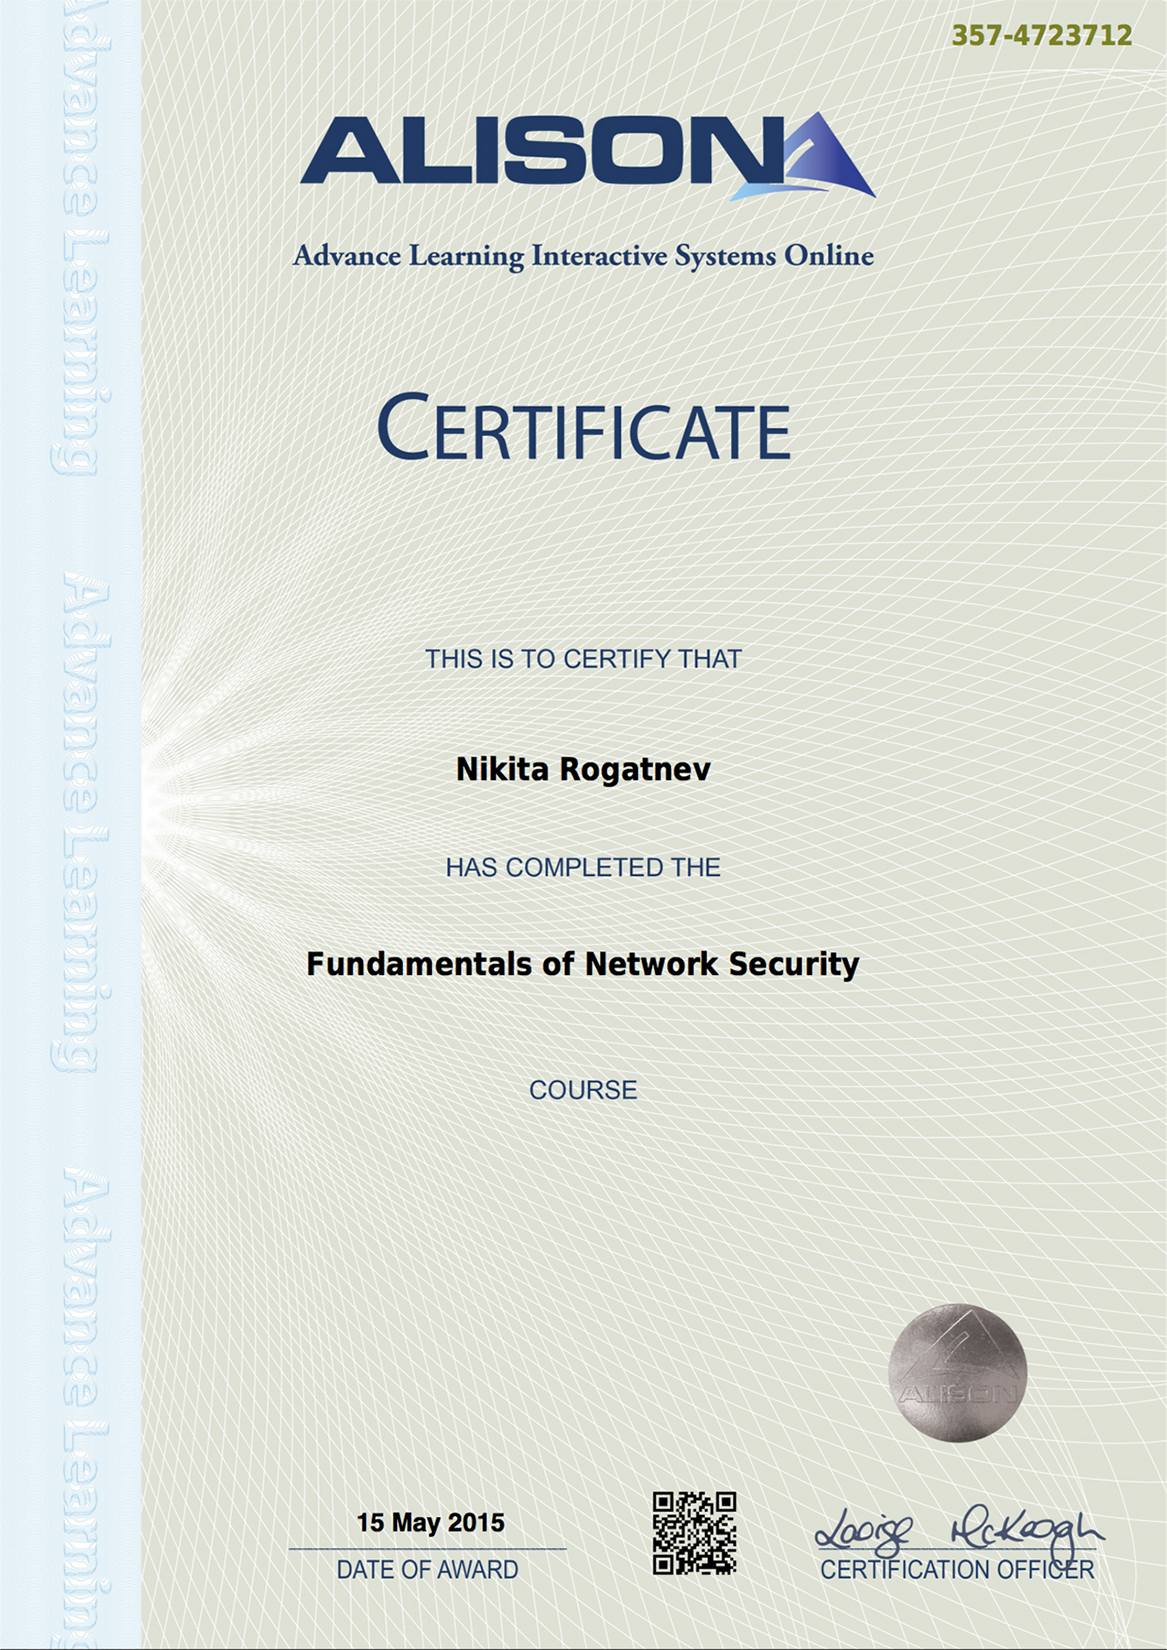
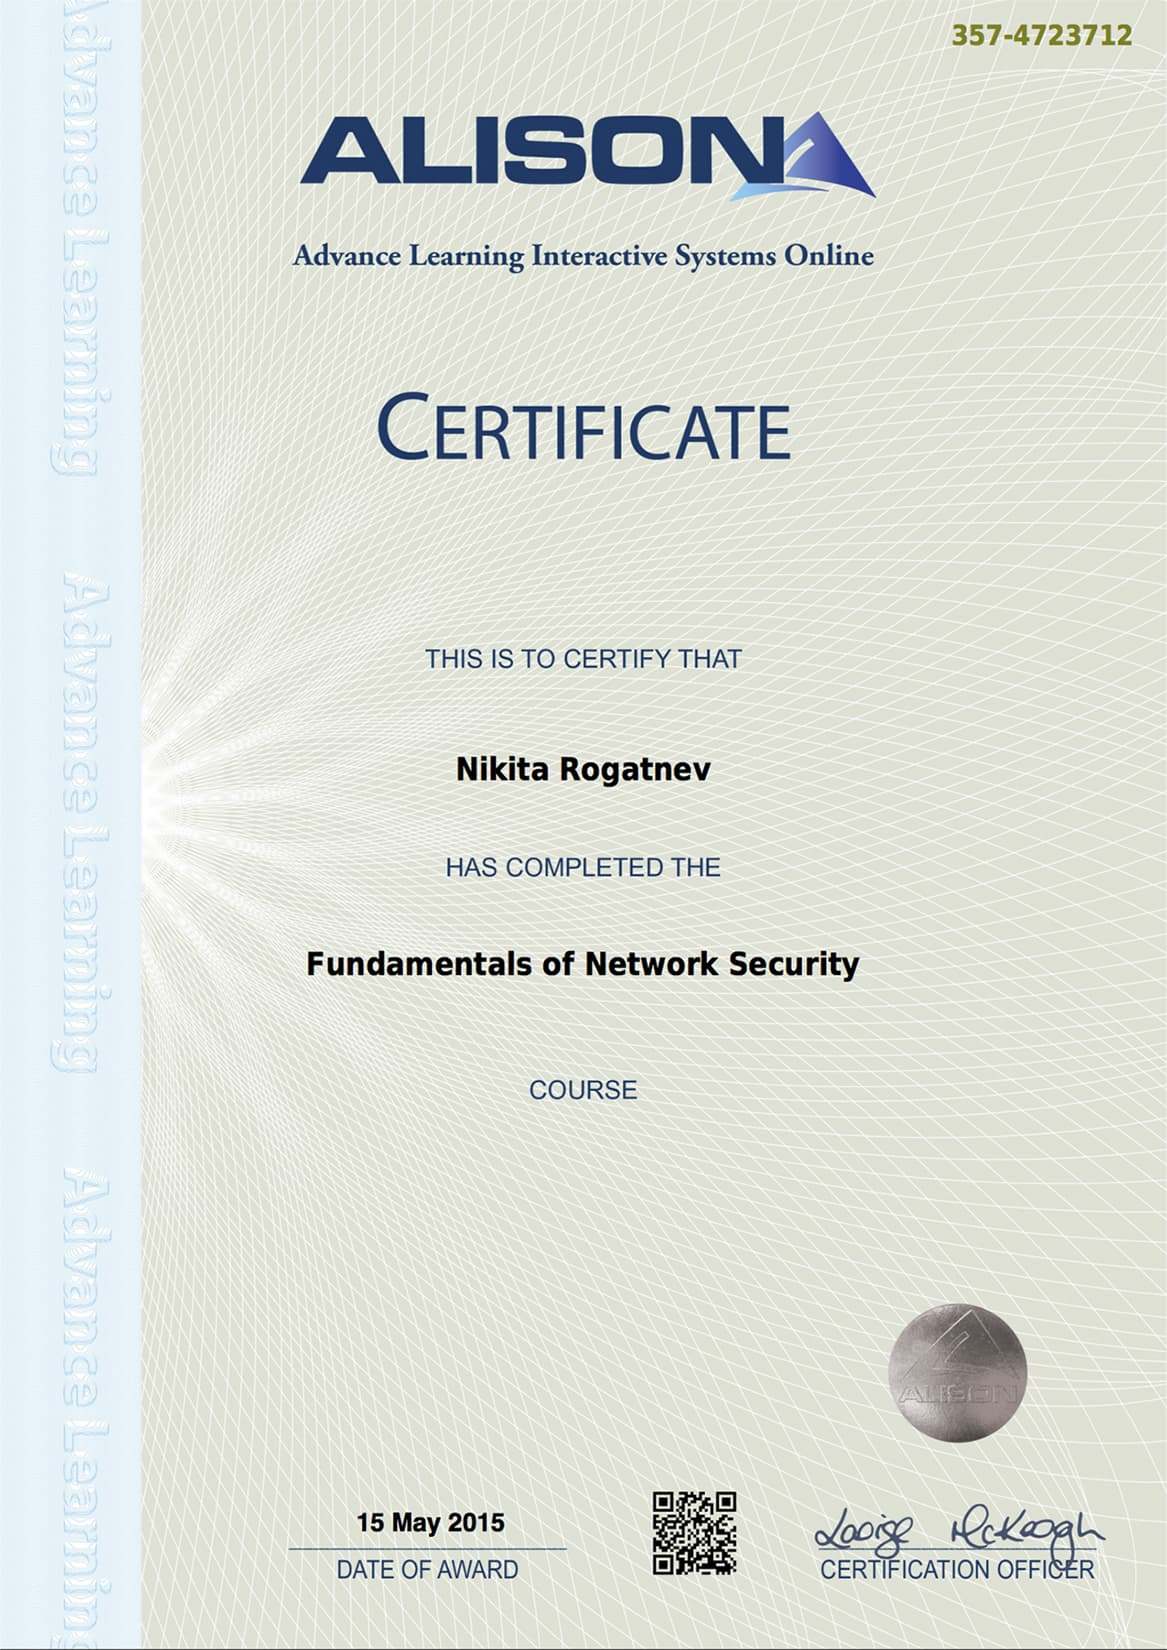
image optimize

Changed region(s): [[0.8946, 0.0, 0.9254, 0.0309]]

diff --git a/build/index.html b/build/index.html
@@ -940,61 +940,61 @@
                     <a href="./img/javascript.jpg" class="certificates__item">
                         <img src="./img/javascript.jpg" alt="javascript" width="500">
                     </a>
-                    <a href="./img/web-designer-basics.png" class="certificates__item">
-                        <img src="./img/web-designer-basics.png" alt="web-designer-basics" width="500">
+                    <a href="./img/web-designer-basics.jpg" class="certificates__item">
+                        <img src="./img/web-designer-basics.jpg" alt="web-designer-basics" width="500">
                     </a>
-                    <a href="./img/digital-sales-certification.png" class="certificates__item">
-                        <img src="./img/digital-sales-certification.png" alt="digital-sales-certification" width="500">
+                    <a href="./img/digital-sales-certification.jpg" class="certificates__item">
+                        <img src="./img/digital-sales-certification.jpg" alt="digital-sales-certification" width="500">
                     </a>
-                    <a href="./img/fundamentals-of-digital-marketing.png" class="certificates__item">
-                        <img src="./img/fundamentals-of-digital-marketing.png" alt="fundamentals-of-digital-marketing"
+                    <a href="./img/fundamentals-of-digital-marketing.jpg" class="certificates__item">
+                        <img src="./img/fundamentals-of-digital-marketing.jpg" alt="fundamentals-of-digital-marketing"
                              width="500">
                     </a>
-                    <a href="./img/creative-certification-exam.png" class="certificates__item">
-                        <img src="./img/creative-certification-exam.png" alt="creative-certification-exam" width="500">
+                    <a href="./img/creative-certification-exam.jpg" class="certificates__item">
+                        <img src="./img/creative-certification-exam.jpg" alt="creative-certification-exam" width="500">
                     </a>
-                    <a href="./img/architect.png" class="certificates__item">
-                        <img src="./img/architect.png" alt="architect" width="500" alt="SA">
+                    <a href="./img/architect.jpg" class="certificates__item">
+                        <img src="./img/architect.jpg" alt="architect" width="500" alt="SA">
                     </a>
-                    <a href="./img/analytics-individual-qualification.png" class="certificates__item">
-                        <img src="./img/analytics-individual-qualification.png" alt="analytics-individual-qualification"
+                    <a href="./img/analytics-individual-qualification.jpg" class="certificates__item">
+                        <img src="./img/analytics-individual-qualification.jpg" alt="analytics-individual-qualification"
                              width="500">
                     </a>
-                    <a href="./img/yandex.png" class="certificates__item">
-                        <img src="./img/yandex.png" alt="yandex" width="500">
+                    <a href="./img/yandex.jpg" class="certificates__item">
+                        <img src="./img/yandex.jpg" alt="yandex" width="500">
                     </a>
-                    <a href="./img/googlep-2.png" class="certificates__item">
-                        <img src="./img/googlep-2.png" alt="googlep" width="500">
+                    <a href="./img/googlep-2.jpg" class="certificates__item">
+                        <img src="./img/googlep-2.jpg" alt="googlep" width="500">
                     </a>
-                    <a href="./img/googlep-1.png" class="certificates__item">
-                        <img src="./img/googlep-1.png" alt="googlep" width="500">
+                    <a href="./img/googlep-1.jpg" class="certificates__item">
+                        <img src="./img/googlep-1.jpg" alt="googlep" width="500">
                     </a>
-                    <a href="./img/ccna-4.png" class="certificates__item">
-                        <img src="./img/ccna-4.png" alt="ccna" width="500">
+                    <a href="./img/ccna-4.jpg" class="certificates__item">
+                        <img src="./img/ccna-4.jpg" alt="ccna" width="500">
                     </a>
-                    <a href="./img/ccna-3.png" class="certificates__item">
-                        <img src="./img/ccna-3.png" alt="ccna" width="500">
+                    <a href="./img/ccna-3.jpg" class="certificates__item">
+                        <img src="./img/ccna-3.jpg" alt="ccna" width="500">
                     </a>
-                    <a href="./img/ccna-2.png" class="certificates__item">
-                        <img src="./img/ccna-2.png" alt="ccna" width="500">
+                    <a href="./img/ccna-2.jpg" class="certificates__item">
+                        <img src="./img/ccna-2.jpg" alt="ccna" width="500">
                     </a>
-                    <a href="./img/ccna-1.png" class="certificates__item">
-                        <img src="./img/ccna-1.png" alt="ccna" width="500">
+                    <a href="./img/ccna-1.jpg" class="certificates__item">
+                        <img src="./img/ccna-1.jpg" alt="ccna" width="500">
                     </a>
-                    <a href="./img/w3c.png" class="certificates__item">
-                        <img src="./img/w3c.png" alt="w3c" width="500">
+                    <a href="./img/w3c.jpg" class="certificates__item">
+                        <img src="./img/w3c.jpg" alt="w3c" width="500">
                     </a>
                     <a href="./img/alison.jpg" class="certificates__item">
                         <img src="./img/alison.jpg" alt="alison" width="500">
                     </a>
-                    <a href="./img/mta-html5.png" class="certificates__item">
-                        <img src="./img/mta-html5.png" alt="mta" width="500">
+                    <a href="./img/mta-html5.jpg" class="certificates__item">
+                        <img src="./img/mta-html5.jpg" alt="mta" width="500">
                     </a>
-                    <a href="./img/mta-wosf.png" class="certificates__item">
-                        <img src="./img/mta-wosf.png" alt="mta" width="500">
+                    <a href="./img/mta-wosf.jpg" class="certificates__item">
+                        <img src="./img/mta-wosf.jpg" alt="mta" width="500">
                     </a>
-                    <a href="./img/schneideruniversities.png" class="certificates__item">
-                        <img src="./img/schneideruniversities.png" alt="schneideruniversities" width="500">
+                    <a href="./img/schneideruniversities.jpg" class="certificates__item">
+                        <img src="./img/schneideruniversities.jpg" alt="schneideruniversities" width="500">
                     </a>
                 </div>
             </div>

diff --git a/src/index.html b/src/index.html
@@ -940,61 +940,61 @@
                     <a href="./img/javascript.jpg" class="certificates__item">
                         <img src="./img/javascript.jpg" alt="javascript" width="500">
                     </a>
-                    <a href="./img/web-designer-basics.png" class="certificates__item">
-                        <img src="./img/web-designer-basics.png" alt="web-designer-basics" width="500">
+                    <a href="./img/web-designer-basics.jpg" class="certificates__item">
+                        <img src="./img/web-designer-basics.jpg" alt="web-designer-basics" width="500">
                     </a>
-                    <a href="./img/digital-sales-certification.png" class="certificates__item">
-                        <img src="./img/digital-sales-certification.png" alt="digital-sales-certification" width="500">
+                    <a href="./img/digital-sales-certification.jpg" class="certificates__item">
+                        <img src="./img/digital-sales-certification.jpg" alt="digital-sales-certification" width="500">
                     </a>
-                    <a href="./img/fundamentals-of-digital-marketing.png" class="certificates__item">
-                        <img src="./img/fundamentals-of-digital-marketing.png" alt="fundamentals-of-digital-marketing"
+                    <a href="./img/fundamentals-of-digital-marketing.jpg" class="certificates__item">
+                        <img src="./img/fundamentals-of-digital-marketing.jpg" alt="fundamentals-of-digital-marketing"
                              width="500">
                     </a>
-                    <a href="./img/creative-certification-exam.png" class="certificates__item">
-                        <img src="./img/creative-certification-exam.png" alt="creative-certification-exam" width="500">
+                    <a href="./img/creative-certification-exam.jpg" class="certificates__item">
+                        <img src="./img/creative-certification-exam.jpg" alt="creative-certification-exam" width="500">
                     </a>
-                    <a href="./img/architect.png" class="certificates__item">
-                        <img src="./img/architect.png" alt="architect" width="500" alt="SA">
+                    <a href="./img/architect.jpg" class="certificates__item">
+                        <img src="./img/architect.jpg" alt="architect" width="500" alt="SA">
                     </a>
-                    <a href="./img/analytics-individual-qualification.png" class="certificates__item">
-                        <img src="./img/analytics-individual-qualification.png" alt="analytics-individual-qualification"
+                    <a href="./img/analytics-individual-qualification.jpg" class="certificates__item">
+                        <img src="./img/analytics-individual-qualification.jpg" alt="analytics-individual-qualification"
                              width="500">
                     </a>
-                    <a href="./img/yandex.png" class="certificates__item">
-                        <img src="./img/yandex.png" alt="yandex" width="500">
+                    <a href="./img/yandex.jpg" class="certificates__item">
+                        <img src="./img/yandex.jpg" alt="yandex" width="500">
                     </a>
-                    <a href="./img/googlep-2.png" class="certificates__item">
-                        <img src="./img/googlep-2.png" alt="googlep" width="500">
+                    <a href="./img/googlep-2.jpg" class="certificates__item">
+                        <img src="./img/googlep-2.jpg" alt="googlep" width="500">
                     </a>
-                    <a href="./img/googlep-1.png" class="certificates__item">
-                        <img src="./img/googlep-1.png" alt="googlep" width="500">
+                    <a href="./img/googlep-1.jpg" class="certificates__item">
+                        <img src="./img/googlep-1.jpg" alt="googlep" width="500">
                     </a>
-                    <a href="./img/ccna-4.png" class="certificates__item">
-                        <img src="./img/ccna-4.png" alt="ccna" width="500">
+                    <a href="./img/ccna-4.jpg" class="certificates__item">
+                        <img src="./img/ccna-4.jpg" alt="ccna" width="500">
                     </a>
-                    <a href="./img/ccna-3.png" class="certificates__item">
-                        <img src="./img/ccna-3.png" alt="ccna" width="500">
+                    <a href="./img/ccna-3.jpg" class="certificates__item">
+                        <img src="./img/ccna-3.jpg" alt="ccna" width="500">
                     </a>
-                    <a href="./img/ccna-2.png" class="certificates__item">
-                        <img src="./img/ccna-2.png" alt="ccna" width="500">
+                    <a href="./img/ccna-2.jpg" class="certificates__item">
+                        <img src="./img/ccna-2.jpg" alt="ccna" width="500">
                     </a>
-                    <a href="./img/ccna-1.png" class="certificates__item">
-                        <img src="./img/ccna-1.png" alt="ccna" width="500">
+                    <a href="./img/ccna-1.jpg" class="certificates__item">
+                        <img src="./img/ccna-1.jpg" alt="ccna" width="500">
                     </a>
-                    <a href="./img/w3c.png" class="certificates__item">
-                        <img src="./img/w3c.png" alt="w3c" width="500">
+                    <a href="./img/w3c.jpg" class="certificates__item">
+                        <img src="./img/w3c.jpg" alt="w3c" width="500">
                     </a>
                     <a href="./img/alison.jpg" class="certificates__item">
                         <img src="./img/alison.jpg" alt="alison" width="500">
                     </a>
-                    <a href="./img/mta-html5.png" class="certificates__item">
-                        <img src="./img/mta-html5.png" alt="mta" width="500">
+                    <a href="./img/mta-html5.jpg" class="certificates__item">
+                        <img src="./img/mta-html5.jpg" alt="mta" width="500">
                     </a>
-                    <a href="./img/mta-wosf.png" class="certificates__item">
-                        <img src="./img/mta-wosf.png" alt="mta" width="500">
+                    <a href="./img/mta-wosf.jpg" class="certificates__item">
+                        <img src="./img/mta-wosf.jpg" alt="mta" width="500">
                     </a>
-                    <a href="./img/schneideruniversities.png" class="certificates__item">
-                        <img src="./img/schneideruniversities.png" alt="schneideruniversities" width="500">
+                    <a href="./img/schneideruniversities.jpg" class="certificates__item">
+                        <img src="./img/schneideruniversities.jpg" alt="schneideruniversities" width="500">
                     </a>
                 </div>
             </div>
